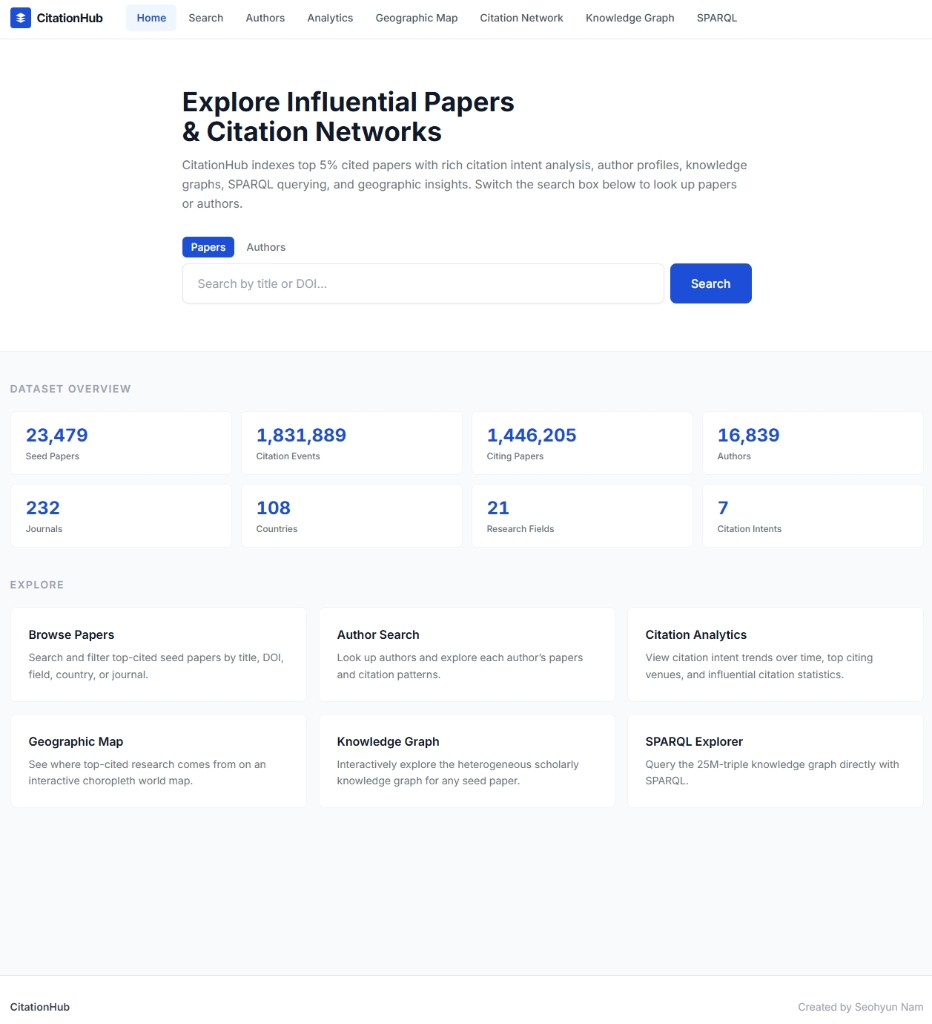
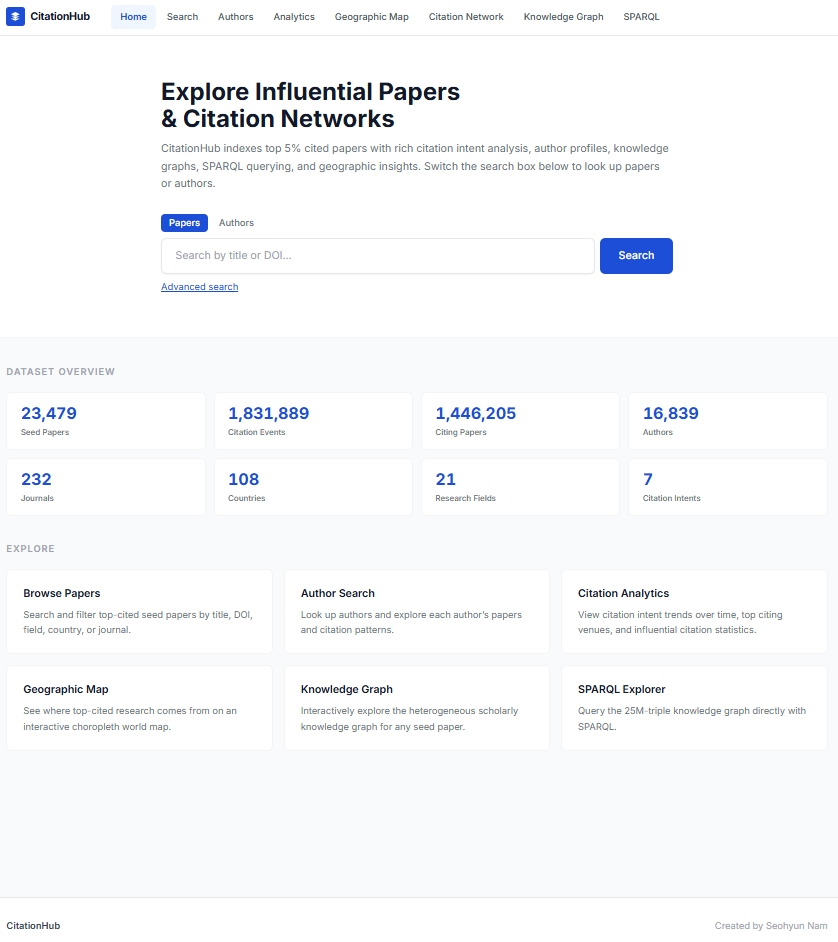
Document Advanced search with the fielded-form screenshot.
Home now shows the Advanced search link; features.md records the AND matching, cover-year filter, and Scopus-style author names.

diff --git a/README.md b/README.md
@@ -15,7 +15,7 @@ This repository explains how CitationHub is organized and how it uses IDCite. It
 The home page is the entry point to the system.
 
 - The **top navigation** lists eight modules: Home, Search, Authors, Analytics, Geographic Map, Citation Network, Knowledge Graph, and SPARQL.
-- The **hero search box** switches between Papers (title or DOI) and Authors.
+- The **hero search box** switches between Papers (title or DOI) and Authors. Under the paper search box, **Advanced search** opens a fielded form (title, author, journal, publication year).
 - **Dataset Overview** reports the scale currently served by the interactive system (seed papers, citation events, citing papers, authors, journals, countries, fields, and citation intents).
 - **Explore** links to the six analysis modules.
 
@@ -29,11 +29,24 @@ Each navigation tab is a separate view over the same IDCite tables.
 
 ### Home
 
-The landing page introduces the corpus, provides paper/author search, and summarizes dataset scale. The Explore cards jump to Search, Authors, Analytics, Geographic Map, Knowledge Graph, and SPARQL.
+The landing page introduces the corpus, provides paper/author search, and summarizes dataset scale. The Explore cards jump to Search, Authors, Analytics, Geographic Map, Knowledge Graph, and SPARQL. The paper search box includes an **Advanced search** link to `/search/advanced`.
 
 ### Search
 
-Keyword search over seed-paper titles and DOIs, with Field, Country, and Journal filters, pagination, and CSV export. Opening a result leads to the **paper detail** page.
+Keyword search over seed-paper titles and DOIs, with Field, Country, and Journal filters, pagination, and CSV export. Opening a result leads to the **paper detail** page. The same page also accepts the fielded query produced by Advanced search (`title`, `author`, `journal`, `year_min`, `year_max`).
+
+### Advanced search
+
+![CitationHub advanced search](assets/citationhub-advanced-search.png)
+
+`/search/advanced` is a fielded form over the seed-paper catalogue, reached from Home (and from the paper search bar). It is not a separate data source: the same `/search` results page and `/api/search` filters serve both the simple box and this form.
+
+- **Keywords** match tokens in the title or DOI.
+- **Title**, **Author(s)**, and **In journal(s)** each search that bibliographic field.
+- Filled fields are combined with AND. Within a field, every whitespace-separated word must appear (substring match). Example: `deep learning` keeps papers whose title or DOI contains both words.
+- Author strings in IDCite follow Scopus style (`Studenski S.`), not a full given name.
+- **Date published** is the seed paper’s cover year, not the year it was cited. Presets: Any date, Since 2020, 2015–2019, 2010–2014, Before 2010, or a custom YYYY–YYYY range.
+- Submit sends the query to `/search`; the result list can reopen the form via **Edit advanced search**.
 
 ### Authors
 

diff --git a/docs/features.md b/docs/features.md
@@ -11,6 +11,7 @@ Website URL: [https://citation-hub-website.vercel.app](https://citation-hub-webs
 Home is the orientation page.
 
 - **Papers / Authors toggle** in the search box. Papers search by title or DOI; Authors search by name.
+- Under the paper search box, **Advanced search** opens `/search/advanced`.
 - **Dataset Overview** cards report the live index: seed papers, citation events, citing papers, authors, journals, countries, research fields, and citation intents.
 - **Explore** cards link to Browse Papers, Author Search, Citation Analytics, Geographic Map, Knowledge Graph, and SPARQL Explorer.
 
@@ -26,6 +27,21 @@ Search is the catalogue of highly cited **seed papers**.
 - Sidebar filters: **Field**, **Country**, **Journal**.
 - Pagination and **Export CSV**.
 - Each result card opens **paper detail**.
+- Query parameters from Advanced search (`title`, `author`, `journal`, `year_min`, `year_max`) are applied together with the sidebar filters.
+
+---
+
+## Advanced search (`/search/advanced`)
+
+![CitationHub advanced search](../assets/citationhub-advanced-search.png)
+
+Advanced search is a fielded form over the same seed-paper table as Search. It does not query a second index.
+
+- **Keywords** → title or DOI tokens (`q`).
+- **Title**, **Author(s)**, **In journal(s)** → those columns on the normalized seed-paper table (`creator` is stored as Scopus-style names such as `Studenski S.`).
+- Every filled field must match (AND across fields). Every word inside a field must appear (AND within a field; substring, not Boolean OR/NOT).
+- **Date published** filters the paper’s cover year. Radio presets cover Any date, Since 2020, 2015–2019, 2010–2014, Before 2010, plus custom start/end years. This is not the citing-paper year used on Analytics or paper-detail citation events.
+- Submit navigates to `/search` with those query parameters. **Edit advanced search** returns to the form with the same values.
 
 ---
 
